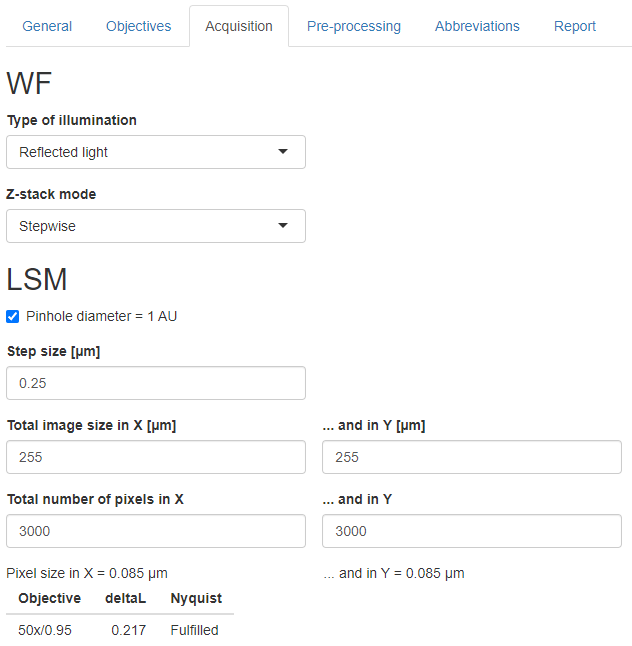
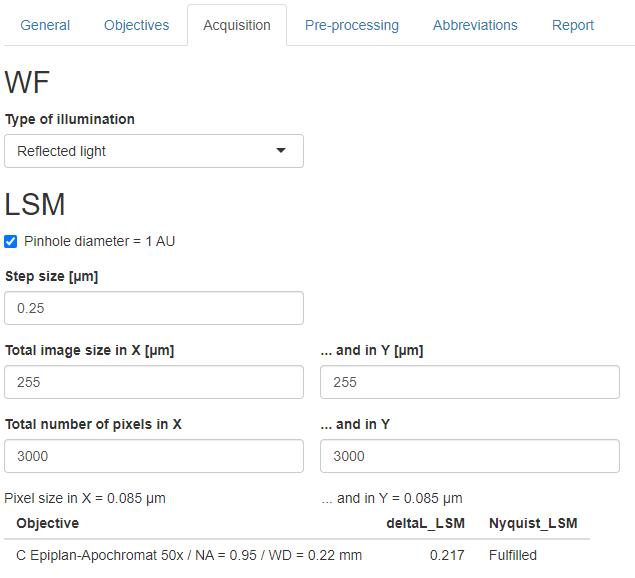
Added: Axio Scope.A1

diff --git a/README.md b/README.md
@@ -47,7 +47,7 @@ Once all fields are entered, **the report can be exported to an ODS or XLSX file
 **This report can and should be published together with the image data.** While publishing them as a supplementary material to a paper is OK, I recommend publishing everything in open access on an online repository like [Zenodo](https://zenodo.org/), [Figshare](https://figshare.com/) or [OSF](https://osf.io/) for easy and long-term accessibility. Additionally or alternatively, the report could be attached to a protocol, for example on [protocols.io](https://www.protocols.io/).  
 For more details, **check my repo** [**publish-micro-image**](https://github.com/ivan-paleo/publish-micro-image).
 
-The App is designed for the instruments available at the [IMPALA](https://www.leiza.de/forschung/infrastrukturen/labore/impala) and currently includes only the digital microscope (Zeiss Smartzoom 5) and the upright light microscope + LSCM (Zeiss Axio Imager.Z2 Vario + LSM 800 MAT, abbreviated "LSM"). More instruments will be added later.
+The App is designed for the instruments available at the [IMPALA](https://www.leiza.de/forschung/infrastrukturen/labore/impala) and currently includes the digital microscope (Zeiss Smartzoom 5), the upright light microscope + LSCM (Zeiss Axio Imager.Z2 Vario + LSM 800 MAT, abbreviated "LSM") and the reflected light microscope (Zeiss Axio Scope.A1). More instruments will be added later.
 
 If you would like to adapt the App to your instrument(s), check the sections [How to adapt the App](#how-to-adapt-the-app), [How to contribute](#how-to-contribute) and [License](#license).
 
@@ -121,7 +121,9 @@ Click on the GitHub button to access the repository with the source code.
 ## Tab "General"
 **Select the software you used from the list and enter the version(s).**  
 Make sure you specify the full details of the version including hot fixes (HF).  
-If you used more than 1 software packages, enter the versions in the same order as the software packages and separate them with semi-colons **without** space (e.g. "v12 HF5;v3 HF2").
+If you used more than 1 software packages, enter the versions in the same order as the software packages and separate them with semi-colons **without** space (e.g. "v12 HF5;v3 HF2"). If available on the instrument, tick the box if you used the module Shuttle-and-Find (correlative microscopy).
+
+Tick the boxes for all acquisition modes you used.
 
 ><p align="center" width="100%">
 >    <img src="screenshots/app_general_LSM_filled.png"><br>
@@ -133,9 +135,15 @@ If you used more than 1 software packages, enter the versions in the same order 
 >    <i>General tab for the Smartzoom 5.</i>
 ></p>
 
+><p align="center" width="100%">
+>    <img src="screenshots/app_general_AS_filled.png"><br>
+>    <i>General tab for the Axio Scope.A1.</i>
+></p>
+
 
 ## Tab "Objectives"
 **Select from the list how each objective has been used.**  
+
 On the Axio Imager.Z2 Vario + LSM 800 MAT:  
 
 - Several uses can be assigned to every objective. To do so, click on every relevant use from the list. 
@@ -153,6 +161,13 @@ On the Smartzoom 5: by default, none of the objectives has been used, so make su
 >    <i>Objectives tab for the Smartzoom 5.</i>
 ></p>
 
+It works the same way on the Axio Scope.A1.
+
+><p align="center" width="100%">
+>    <img src="screenshots/app_objectives_AS.png"><br>
+>    <i>Objectives tab for the Axio Scope.A1.</i>
+></p>
+
 Below the fields to assign uses to objectives, a barplot shows the lateral optical resolutions of each used objective. For the Axio Imager.Z2 Vario + LSM 800 MAT, you have the choice for the wavelength of the light source (`Violet laser (405 nm) - LSM` for the LSM 800 MAT or `White LED (550 nm) - WF` for the Axio Imager.Z2 Vario) but only the latter is available for the Smartzoom 5.  
 The graph can be exported to PDF or PNG using the buttons below.
 
@@ -163,10 +178,11 @@ The graph can be exported to PDF or PNG using the buttons below.
 
 
 ## Tab "Acquisition"
+In case of acquisitions for which no settings can be defined (e.g. simple 2D), the message "No input required" will be displayed in the tab. If you did define some settings, either you did acquire using a different mode and you therefore need to tick the corresponding boxes in the tab [General](#tab-general), or some settings are actually related to pre-processing (especially in case of the Smartzoom 5, see tab [Pre-processing](#tab-pre-processing)).
+
 On the Axio Imager.Z2 Vario + LSM 800 MAT:  
 
 - Choose the type of illumination: reflected or transmitted.  
-- There is only one z-stack mode to choose from: Stepwise.  
 
 ><p align="center" width="100%">
 >    <img src="screenshots/app_acq_LSM.png"><br>
@@ -177,7 +193,7 @@ On the Axio Imager.Z2 Vario + LSM 800 MAT:
 
   - Enter the information for the objective used for this type of acquisition.    
   - Tick the box "Pinhole diameter = 1 AU" to confirm that the pinhole diameter was set properly.  
-  - Enter the step size, the image size in X and Y, and the number of pixels in X and Y for the total image in case stitching was used. **It is currently not possible to enter these pieces of information for several objectives.**   
+  - Enter the step size, the image size in X and Y, and the number of pixels in X and Y for the total image in case stitching was used. **It is currently not possible to enter these pieces of information for several objectives.** It is assumed that only 1 objective has been used for 3D topography.     
   - The pixel size in X and Y is calculated and showed interactively below, as well as whether the Nyquist criterion is fulfilled for this objective. The Nyquist criterion is fulfilled when the pixel size is 2 to 3 times smaller than the lateral optical resolution (see tab [Objectives](#objectives)).  
   - In case the pixel size in X and Y differ, a warning will be displayed that the pixels are not square. The detector can only acquire square pixels, so at least one of the values you entered has to be wrong.
   
@@ -186,17 +202,24 @@ On the Axio Imager.Z2 Vario + LSM 800 MAT:
 >    <i>Warning about square pixels for the Axio Imager.Z2 Vario + LSM 800 MAT.</i>
 ></p> 
 
-On the Smartzoom 5: the only thing to choose is the z-stack mode ("Continuous" or "Stepwise"). The type of illumination is only shown but this microscope can only use reflected light.
+On the Smartzoom 5: the only thing to choose is the z-stack mode ("Continuous" or "Stepwise") in case of an EDF/3D acquisition. 
 
 ><p align="center" width="100%">
 >    <img src="screenshots/app_acq_SZ.png"><br>
 >    <i>Acquisition tab for the Smartzoom 5.</i>
 ></p>
 
+On the Axio Scope.A1: the only thing to choose is the panorama mode ("Automatic" or "Interactive") in case of a panorama acquisition. 
+
+><p align="center" width="100%">
+>    <img src="screenshots/app_acq_AS.png"><br>
+>    <i>Acquisition tab for the Axio Scope.A1.</i>
+></p>
+
 
 ## Tab "Pre-processing"
 **Enter the options of the pre-processing methods in this tab.**  
-Only a 2D acquisition does not require pre-processing. So if you did not select anything else than "2D" in the [tab "General"](#tab-general), no input is needed in the tab "Pre-processing" and a message notifies you of this.
+Some acquisition modes do not require pre-processing (e.g. 2D on all instruments), or the settings cannot be changed by the user (e.g. 3D/EDF on the Smartzoom 5). So if you did not select any acquisition mode that requires input about pre-processing settings in the tab [General](#tab-general), a message notifies you of this in the tab Pre-processing.
 
 ><p align="center" width="100%">
 >    <img src="screenshots/app_pre-proc_LSM_none.png"><br>
@@ -210,11 +233,18 @@ Different fields to fill in appear depending on instrument used and on the acqui
 >    <i>Pre-processing tab for the Axio Imager.Z2 Vario + LSM 800 MAT.</i>
 ></p>
 
-Specific to the Smartzoom, if you applied EDF/3D, use the slider to specify the range of number of slices you used (minimum to maximum) for the stacking.
+Specific to the Smartzoom 5, only settings related to stitching require input.
 
 ><p align="center" width="100%">
 >    <img src="screenshots/app_pre-proc_SZ.png"><br>
 >    <i>Pre-processing tab for the Smartzoom 5.</i>
+></p>
+
+For the Axio Scope.A1: Pre-processing settings cannot be reported yet. WIP.
+
+><p align="center" width="100%">
+>    <img src="screenshots/app_pre-proc_AS.png"><br>
+>    <i>Pre-processing tab for the Axio Scope.A1.</i>
 ></p>
 
 
@@ -243,6 +273,11 @@ Once done, click on the `Download Report to ODS` or `Download Report to XLSX` bu
 ><p align="center" width="100%">
 >    <img src="screenshots/app_report_SZ.png"><br>
 >    <i>Example report with the Smartzoom 5.</i>
+></p>
+
+><p align="center" width="100%">
+>    <img src="screenshots/app_report_AS.png"><br>
+>    <i>Example report with the Axio Scope.A1.</i>
 ></p>
 
 
